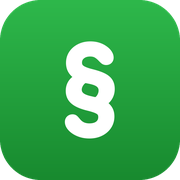
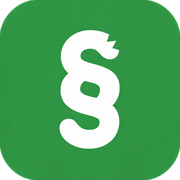
🐊 Ребрендинг: приложение «Алитигатор», новый логотип § (v136)

diff --git a/sberbank_dashboard.html b/sberbank_dashboard.html
@@ -6,7 +6,7 @@
 <meta http-equiv="Cache-Control" content="no-cache, no-store, must-revalidate">
 <meta http-equiv="Pragma" content="no-cache">
 <meta http-equiv="Expires" content="0">
-<title>Сбер Юрист</title>
+<title>Алитигатор</title>
 <!-- theme-color стоит ДО скрипта темы: applyResolved меняет его content
      при переключении light/dark, ниже по <head> тег был бы ещё не распарсен -->
 <meta name="theme-color" content="#21a038">
@@ -69,7 +69,7 @@
 <link rel="preconnect" href="https://fonts.googleapis.com">
 <link rel="preconnect" href="https://fonts.gstatic.com" crossorigin>
 <link href="https://fonts.googleapis.com/css2?family=IBM+Plex+Sans:wght@400;500;600;700&family=IBM+Plex+Mono:wght@400;500&display=swap&subset=cyrillic,cyrillic-ext,latin,latin-ext" rel="stylesheet">
-<link rel="stylesheet" href="styles.css?v=135">
+<link rel="stylesheet" href="styles.css?v=136">
 
 <!-- PWA: установка на главный экран и офлайн-режим
      (theme-color вынесен выше, до скрипта темы) -->
@@ -77,7 +77,7 @@
 <!-- iOS Safari требует отдельных apple-* мета-тегов помимо стандартного manifest -->
 <meta name="apple-mobile-web-app-capable" content="yes">
 <meta name="apple-mobile-web-app-status-bar-style" content="default">
-<meta name="apple-mobile-web-app-title" content="Сбер Юрист">
+<meta name="apple-mobile-web-app-title" content="Алитигатор">
 <link rel="apple-touch-icon" href="icon-180.png">
 </head>
 <body>
@@ -129,7 +129,7 @@
           <img src="icon-192.png" alt="" />
         </div>
         <div>
-          <div class="header-title">Сбер Юрист</div>
+          <div class="header-title">Алитигатор</div>
           <!-- Регион территории: заполняет app.js (updateRegionBadge) из блока
                region в cases.json / REGION_FRONT.REGION_LABEL -->
           <div class="header-sub header-region" id="header-region"></div>
@@ -292,6 +292,6 @@
 </div>
 
 <script src="region_front.js?v=3"></script>
-<script src="app.js?v=135" defer></script>
+<script src="app.js?v=136" defer></script>
 </body>
 </html>

diff --git a/service-worker.js b/service-worker.js
@@ -8,7 +8,7 @@
    (сверяется тестом scripts/tests/test_versions.py).
 */
 
-const CACHE_VERSION = 'v135';
+const CACHE_VERSION = 'v136';
 // Территория в имени кэша: фронты ХМАО (/dashboard/) и Урала (/dashboard-ural/)
 // живут на одном origin github.io, а Cache Storage общий на весь origin —
 // без суффикса activate-очистка одной территории сносила бы кэши другой при
@@ -39,7 +39,7 @@ const APP_SHELL = [
 // Минимальная офлайн-страница на случай, если HTML не оказалось ни в сети, ни в кэше.
 const OFFLINE_HTML = `<!doctype html><html lang="ru"><head><meta charset="utf-8">
 <meta name="viewport" content="width=device-width,initial-scale=1">
-<title>Нет связи · Сбер Юрист</title>
+<title>Нет связи · Алитигатор</title>
 <style>
   body{margin:0;font-family:-apple-system,system-ui,sans-serif;background:#f1faf3;color:#14181f;
        display:flex;align-items:center;justify-content:center;min-height:100vh;padding:24px;text-align:center}
@@ -225,7 +225,7 @@ async function cacheFirst(request, cacheName) {
 self.addEventListener('push', (event) => {
   const data = event.data
     ? event.data.json()
-    : { title: 'Сбер Юрист', body: 'Есть обновления по делам' };
+    : { title: 'Алитигатор', body: 'Есть обновления по делам' };
 
   // URL, который SW откроет по клику. Бэкенд (Python send_web_push) присылает
   // абсолютный путь '/sberbank_dashboard.html?digest=open' — приводим к
@@ -235,7 +235,7 @@ self.addEventListener('push', (event) => {
   const clickUrl = rawUrl.startsWith('/') ? '.' + rawUrl : rawUrl;
 
   event.waitUntil(
-    self.registration.showNotification(data.title || 'Сбер Юрист', {
+    self.registration.showNotification(data.title || 'Алитигатор', {
       body: data.body || 'Есть обновления по делам',
       icon: './icon-192.png',
       badge: './icon-192.png',

diff --git a/cloudflare-worker/worker.js b/cloudflare-worker/worker.js
@@ -714,7 +714,7 @@ async function buildVapidAuth(env, audience) {
 }
 
 // 5) Тестовый push конкретной подписке. Без encryption: SW сам покажет
-// дефолтное уведомление «Сбер Юрист — есть обновления по делам». Этого
+// дефолтное уведомление «Алитигатор — есть обновления по делам». Этого
 // достаточно чтобы убедиться, что push реально доходит до устройства.
 async function handleAdminTestPush(request, env) {
   const r = await adminAuthAndLoad(request, env);

diff --git a/index.html b/index.html
@@ -9,7 +9,7 @@
   <meta charset="utf-8">
   <meta http-equiv="refresh" content="0; url=./sberbank_dashboard.html">
   <meta name="viewport" content="width=device-width, initial-scale=1">
-  <title>Сбер Юрист — мониторинг судебных дел</title>
+  <title>Алитигатор — мониторинг судебных дел</title>
   <link rel="canonical" href="./sberbank_dashboard.html">
 </head>
 <body>

diff --git a/scripts/court_monitor/regions/hmao.py b/scripts/court_monitor/regions/hmao.py
@@ -75,7 +75,7 @@ REGION = RegionConfig(
     fi_suspect_regex="Ханты-Манс|Югор|Югр|ХМАО",
     dashboard_url="https://selivanovas.github.io/dashboard/sberbank_dashboard.html",
     tz_offset_hours=5,
-    pwa_name="Сбер Юрист",
+    pwa_name="Алитигатор",
     # Тексты с падежами, которые нельзя вывести из name автоматически
     # (используются точечно, напр. в промпте full-LLM дайджеста).
     extra={"appeal_prep": "в Суде ХМАО-Югры"},

diff --git a/scripts/court_monitor/regions/sverdlovsk_yanao.py b/scripts/court_monitor/regions/sverdlovsk_yanao.py
@@ -160,5 +160,5 @@ REGION = RegionConfig(
     # Variable DASHBOARD_URL (имя репозитория может отличаться).
     dashboard_url="https://selivanovas.github.io/dashboard-ural/sberbank_dashboard.html",
     tz_offset_hours=5,
-    pwa_name="Сбер Юрист (Урал)",
+    pwa_name="Алитигатор (Урал)",
 )
